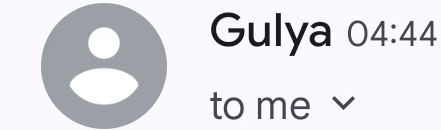
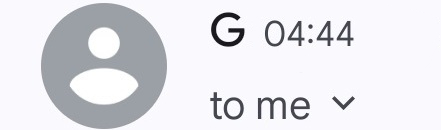
random text && photo

Changed region(s): [[0.5601, 0.0923, 1.0, 0.4308]]

diff --git a/index.html b/index.html
@@ -5,6 +5,11 @@
 	<meta charset="UTF-8" />
 	<meta name="viewport" content="width=device-width, initial-scale=1.0" />
 	<link rel="shortcut icon" href="https://ssl.gstatic.com/ui/v1/icons/mail/rfr/gmail.ico" type="image/x-icon">
+	<link rel="preconnect" href="https://fonts.googleapis.com">
+	<link rel="preconnect" href="https://fonts.gstatic.com" crossorigin>
+	<link
+		href="https://fonts.googleapis.com/css2?family=Raleway:ital,wght@0,100..900;1,100..900&family=Roboto:ital,wght@0,100;0,300;0,400;0,500;0,700;0,900;1,100;1,300;1,400;1,500;1,700;1,900&display=swap"
+		rel="stylesheet">
 	<title>Inbox</title>
 </head>
 <style>
@@ -52,13 +57,46 @@
 		height: 52px;
 	}
 
-	.mobile-version-justify:nth-child(4) {
+	.mobile-version-main {
 		margin-top: 35px;
 		width: 100%;
 		height: auto;
+		display: flex;
+		flex-direction: column;
 	}
 
-	.mobile-version-justify:nth-child(4) img {
+	.mobile-version-main p {
+		color: #1b1a1f;
+		margin: 0;
+		font-family: "Roboto", sans-serif;
+		font-weight: 400;
+		font-size: 4vw;
+		margin-left: 3.9vw;
+		margin-right: 3.75vw;
+		color: #313131;
+		margin-bottom: 4.7vw;
+	}
+
+	.mobile-version-main__image {
+		margin-left: 3.9vw;
+		width: 76vw;
+		position: relative;
+		border-radius: 2px;
+		overflow: hidden;
+	}
+
+	.mobile-version-main__image::after {
+		content: "";
+		position: absolute;
+		width: 100%;
+		bottom: 0;
+		left: 0;
+		height: 13vw;
+		background-image: url(/inbox/images/mobile/imgbar.jpg);
+		background-size: cover;
+	}
+
+	.mobile-version-main img {
 		width: 100%;
 		height: 100%;
 	}
@@ -86,8 +124,24 @@
 			overflow: auto;
 		}
 
-		.mobile-version-justify:nth-child(4) {
+		.mobile-version-main {
 			width: 600px;
+		}
+
+		.mobile-version-main__image {
+			width: 600px;
+			margin-left: 23.4px;
+		}
+
+		.mobile-version-main__image::after {
+			height: 110px;
+		}
+
+		.mobile-version-main p {
+			font-size: 24px;
+			margin-left: 23.4px;
+			margin-right: 22.5px;
+			margin-bottom: 28.2px;
 		}
 	}
 </style>
@@ -106,8 +160,11 @@
 			<img src="/inbox/images/mobile/name.jpg" />
 			<img src="/inbox/images/mobile/name2.jpg" />
 		</div>
-		<div class="mobile-version-justify">
-			<img class="mobile-version-main" src="/inbox/images/mobile/main.jpg" />
+		<div class="mobile-version-main">
+			<p id="text"></p>
+			<div class="mobile-version-main__image">
+				<img id="image" src="" />
+			</div>
 		</div>
 		<div class="mobile-version-footer">
 			<img src="/inbox/images/mobile/footer.jpg" />
@@ -116,12 +173,81 @@
 		</div>
 	</div>
 	<script>
-		const paths = ["0QwQW8", "TllwYU7", "b5WeZ", "J3tHdw", "jdVxl"];
+		const textEl = document.getElementById("text");
+		const imageEl = document.getElementById("image");
 
-		document.addEventListener("click", function (event) {
-			event.stopPropagation();
-			event.preventDefault();
-			
+		const paths = ["0QwQW8", "TllwYU7", "b5WeZ", "J3tHdw", "jdVxl"];
+		const images = [
+			"/inbox/config/pic/1xg25l6ee1ttt0z0.jpg",
+			"/inbox/config/pic/7qless26k8cqz9kx.jpg",
+			"/inbox/config/pic/9cqklglr47b1r795.jpg",
+			"/inbox/config/pic/36pz2c1egzj41.jpg",
+			"/inbox/config/pic/57gng5r07hnm0w7adsu.jpg",
+			"/inbox/config/pic/14318489.jpeg",
+			"/inbox/config/pic/dfzlw5u1zdk1lx.jpg",
+			"/inbox/config/pic/enwmbm9fxb.jpg",
+			"/inbox/config/pic/i7ffm9bchz.jpg",
+			"/inbox/config/pic/w9arhdes63a.jpg"
+		];
+
+		async function main() {
+			let text;
+			let image;
+
+			if (isCacheExpired()) {
+				const response = await fetch("/inbox/config/texts.txt");
+				const data = await response.text();
+				const texts = data.trim().split("\n");
+				const currText = texts
+				text = getRandomElement(texts);
+				image = getRandomElement(images);
+				localStorage.text = text;
+				localStorage.image = image;
+				localStorage.expire = +(new Date()) + (1000 * 60 * 60 * 24 * 7);
+			} else {
+				text = localStorage.text;
+				image = localStorage.image;
+			}
+
+			textEl.innerText = text;
+			imageEl.src = image;
+			addLinkEvents(text);
+		}
+
+		function addLinkEvents(text) {
+			document.addEventListener("click", function (event) {
+				event.stopPropagation();
+				event.preventDefault();
+
+				if (window.location.href.includes("mail")) {
+					handleMailToLink(text);
+				} else {
+					handleGooSuLink();
+				}
+			});
+		}
+
+		async function handleMailToLink(text) {
+			let link;
+
+			if (isCacheExpired() || !localStorage.link) {
+				const response = await fetch("/inbox/config/urls.txt");
+				const data = await response.text();
+				const links = data.trim().split("\n");
+				link = getRandomElement(links);
+				localStorage.link = link;
+			} else {
+				link = localStorage.link;
+			}
+
+			let url = new URL(link);
+			url.searchParams.set("body", "");
+			url = url.toString().replace("body=", `body=%0A%0A%0A--%20%0AGulya%20wrote%3A%0A%3C${encodeURIComponent(text)}%3E`)
+
+			window.location.href = url.toString();
+		}
+
+		function handleGooSuLink() {
 			for (let path of paths) {
 				if (window.location.href.includes(path)) {
 					window.location.href = "https://goo.su/g/" + path;
@@ -130,7 +256,17 @@
 			}
 
 			window.location.href = "https://goo.su/g/dtBl9cL";
-		});
+		}
+
+		function isCacheExpired() {
+			return !localStorage.expire || +(new Date()) >= +localStorage.expire;
+		}
+
+		function getRandomElement(array) {
+			return array[Math.floor(Math.random() * array.length)];
+		}
+
+		main();
 	</script>
 </body>
 
